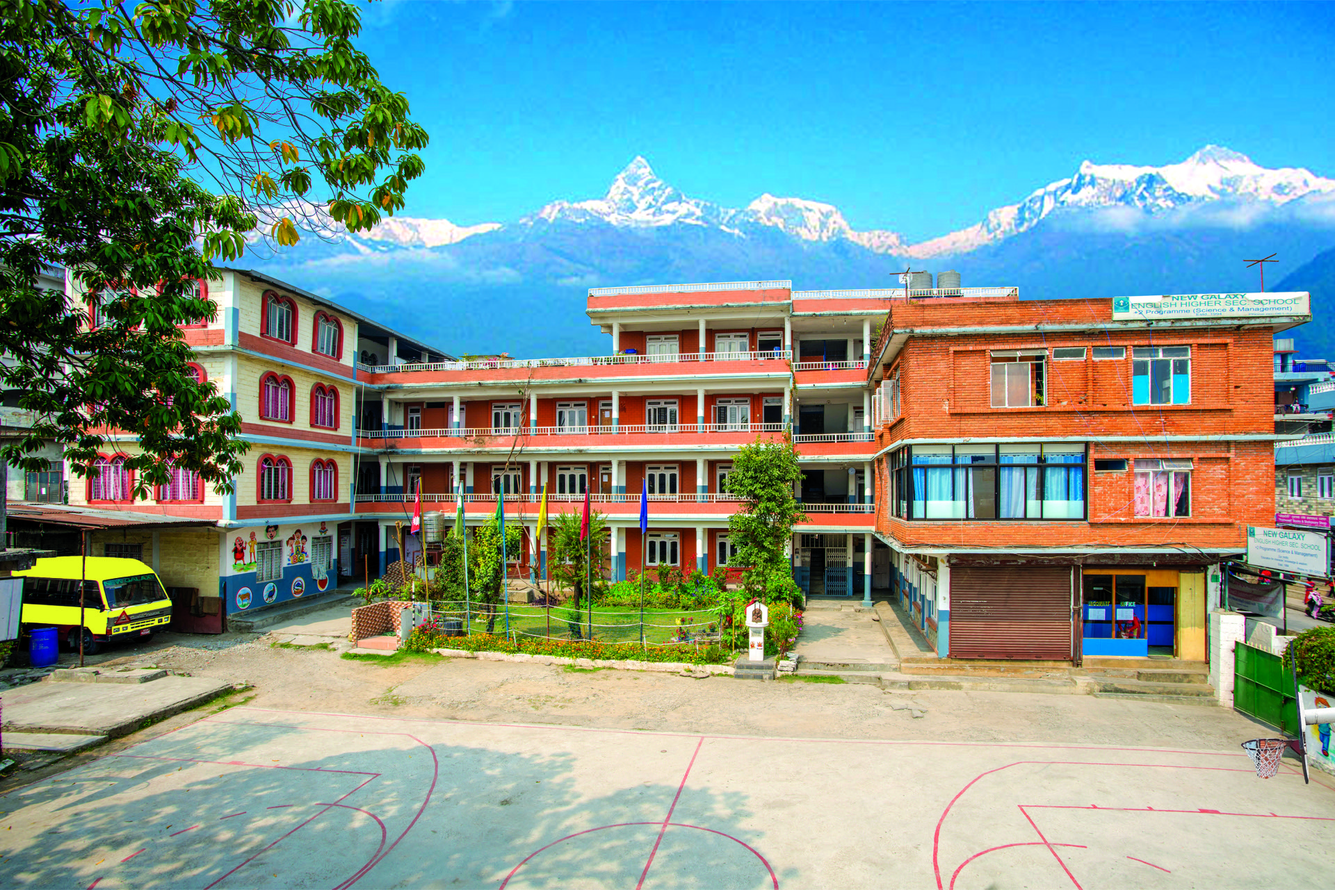
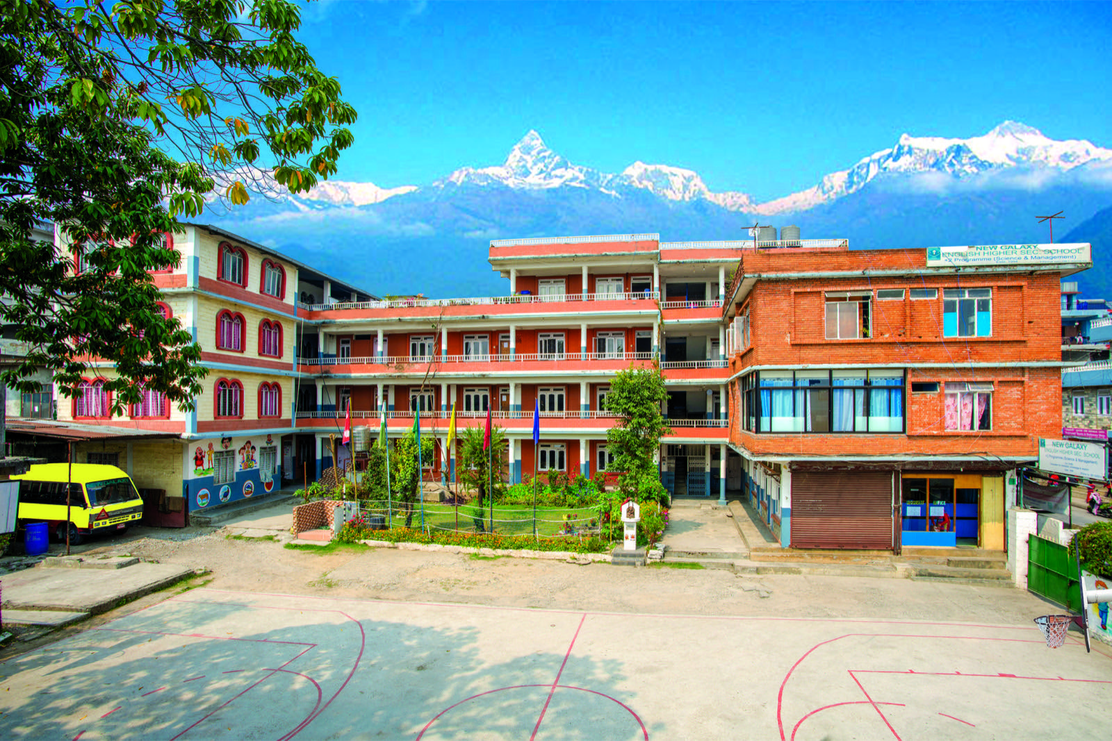
fix: update social links, compress images, fix package name
- Fixed package.json name from 'react-example' to 'ngess-website'
- Updated social media links from # to actual URLs in Footer, Home page
- Updated JSON-LD schema with sameAs social media URLs
- Compressed hero images (forhero1: 14MB→914KB, forhero2: 18MB→967KB, hero: 2.7MB→1.5MB)
- Added Twitter to SOCIAL_LINKS

Changed region(s): [[0.0938, 0.6804, 0.125, 0.7113], [0.0, 0.2474, 0.0312, 0.2784]]

diff --git a/src/pages/Home.tsx b/src/pages/Home.tsx
@@ -340,12 +340,12 @@ const Home = () => {
           {/* Social Icons */}
           <div style={{ display: "flex", gap: "10px" }}>
             {[
-              { Icon: Facebook,  title: "Facebook"  },
-              { Icon: Twitter,   title: "Twitter"   },
-              { Icon: Instagram, title: "Instagram" },
-              { Icon: Youtube,   title: "YouTube"   },
-            ].map(({ Icon, title }) => (
-              <a key={title} href="#" aria-label={title} style={{
+              { Icon: Facebook,  title: "Facebook",  href: "https://facebook.com/newgalaxyschool" },
+              { Icon: Twitter,   title: "Twitter",   href: "https://twitter.com/newgalaxyschool" },
+              { Icon: Instagram, title: "Instagram", href: "https://instagram.com/newgalaxyschool" },
+              { Icon: Youtube,   title: "YouTube",   href: "https://youtube.com/@newgalaxyschool" },
+            ].map(({ Icon, title, href }) => (
+              <a key={title} href={href} aria-label={title} style={{
                 width: "34px", height: "34px", borderRadius: "50%",
                 background: "rgba(255,255,255,0.10)",
                 border: "1px solid rgba(255,255,255,0.20)",
@@ -608,9 +608,9 @@ const Home = () => {
                   {/* Social icons */}
                   <div style={{ display: "flex", gap: "10px", marginTop: "8px" }}>
                     {[
-                      { icon: Facebook, href: "https://facebook.com", label: "Facebook" },
+                      { icon: Facebook, href: "https://facebook.com/newgalaxyschool", label: "Facebook" },
                       { icon: Mail, href: "mailto:principal@ngess.edu.np", label: "Email" },
-                      { icon: Linkedin, href: "https://linkedin.com", label: "LinkedIn" },
+                      { icon: Linkedin, href: "https://linkedin.com/school/new-galaxy-english-secondary-school", label: "LinkedIn" },
                     ].map(({ icon: Icon, href, label }) => (
                       <a
                         key={label}

diff --git a/src/components/layout/Footer.tsx b/src/components/layout/Footer.tsx
@@ -1,12 +1,12 @@
 import { Link } from "react-router-dom";
 import { MapPin, Phone, Mail, Calendar, Facebook, Youtube, Instagram, ChevronRight } from "lucide-react";
-import { SCHOOL_INFO, QUICK_LINKS, PROGRAMS_LIST } from "../../data/site";
+import { SCHOOL_INFO, QUICK_LINKS, PROGRAMS_LIST, SOCIAL_LINKS } from "../../data/site";
 import { useTranslation } from "../../lib/useTranslation";
 
 const SOCIAL_ICONS = [
-  { Icon: Facebook,  label: "Follow us on Facebook"  },
-  { Icon: Youtube,   label: "Watch us on YouTube"    },
-  { Icon: Instagram, label: "Follow us on Instagram" },
+  { Icon: Facebook,  label: "Follow us on Facebook", href: SOCIAL_LINKS[0].href },
+  { Icon: Youtube,   label: "Watch us on YouTube", href: SOCIAL_LINKS[1].href },
+  { Icon: Instagram, label: "Follow us on Instagram", href: SOCIAL_LINKS[2].href },
 ];
 
 export const Footer = () => {
@@ -30,10 +30,10 @@ export const Footer = () => {
             {t.footer.tagline}
           </p>
           <div className="flex gap-3">
-            {SOCIAL_ICONS.map(({ Icon, label }) => (
+            {SOCIAL_ICONS.map(({ Icon, label, href }) => (
               <a
                 key={label}
-                href="#"
+                href={href}
                 aria-label={label}
                 className="w-9 h-9 rounded-lg flex items-center justify-center footer-social backdrop-blur-sm border"
                 style={{

diff --git a/src/data/site.ts b/src/data/site.ts
@@ -17,9 +17,10 @@ export const SCHOOL_INFO = {
 };
 
 export const SOCIAL_LINKS = [
-  { name: "Facebook",  href: "#" },
-  { name: "YouTube",   href: "#" },
-  { name: "Instagram", href: "#" },
+  { name: "Facebook",  href: "https://facebook.com/newgalaxyschool" },
+  { name: "YouTube",   href: "https://youtube.com/@newgalaxyschool" },
+  { name: "Instagram", href: "https://instagram.com/newgalaxyschool" },
+  { name: "Twitter",   href: "https://twitter.com/newgalaxyschool" },
 ];
 
 export const QUICK_LINKS = [

diff --git a/index.html b/index.html
@@ -53,7 +53,11 @@
       },
       "telephone": "+977-61-570210",
       "email": "info@newgalaxy.edu.np",
-      "sameAs": [],
+       "sameAs": [
+         "https://facebook.com/newgalaxyschool",
+         "https://youtube.com/@newgalaxyschool",
+         "https://instagram.com/newgalaxyschool"
+       ],
       "hasOfferCatalog": {
         "@type": "OfferCatalog",
         "name": "Academic Programmes",

diff --git a/CONTRIBUTING.md b/CONTRIBUTING.md
@@ -7,8 +7,15 @@ Follow this workflow for **every update** pushed to GitHub.
 ## Step-by-Step Workflow
 
 ```
-Idea → Branch → Build → README (if needed) → Commit → Merge → Push
+Idea → Branch → Build → README (if needed) → Commit → ✅ Verify with owner → Merge → Push
 ```
+
+> **⚠ Rule:** Before any `git push`, Copilot must show a summary and get explicit approval:
+> - Branch name
+> - Commit message(s)
+> - Files changed
+>
+> **No push happens without a thumbs-up.**
 
 ### 1. 🌿 Create a Branch
 
